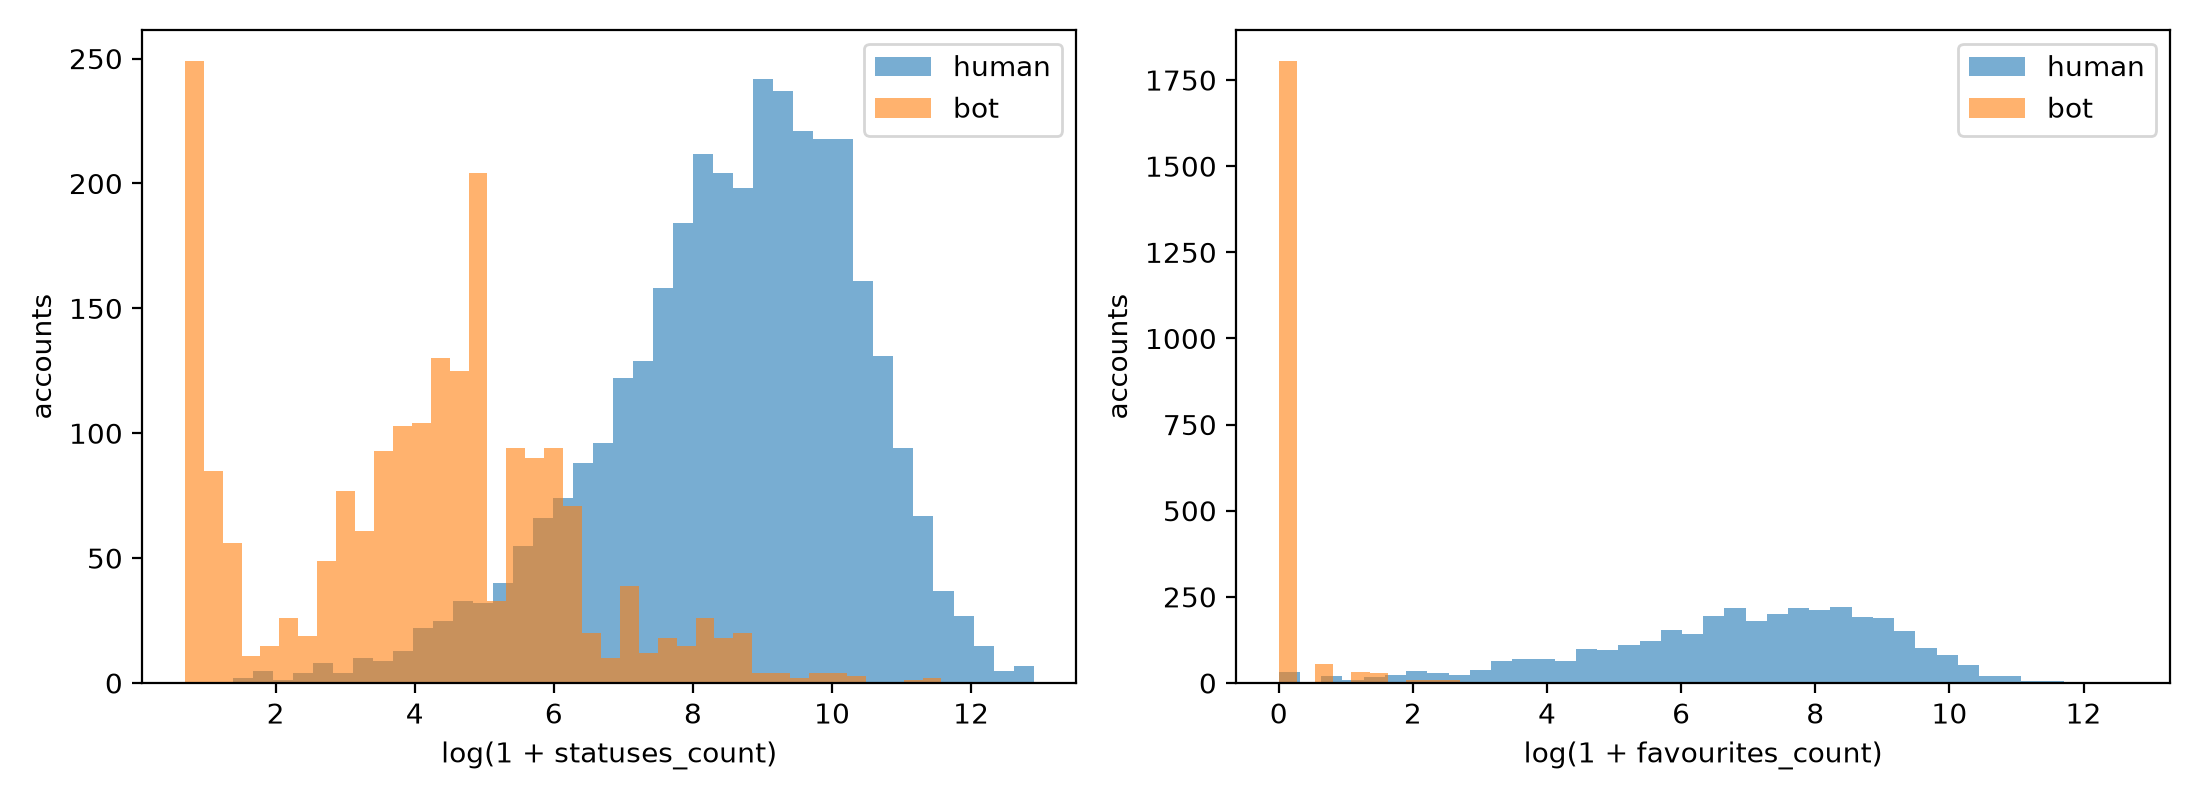
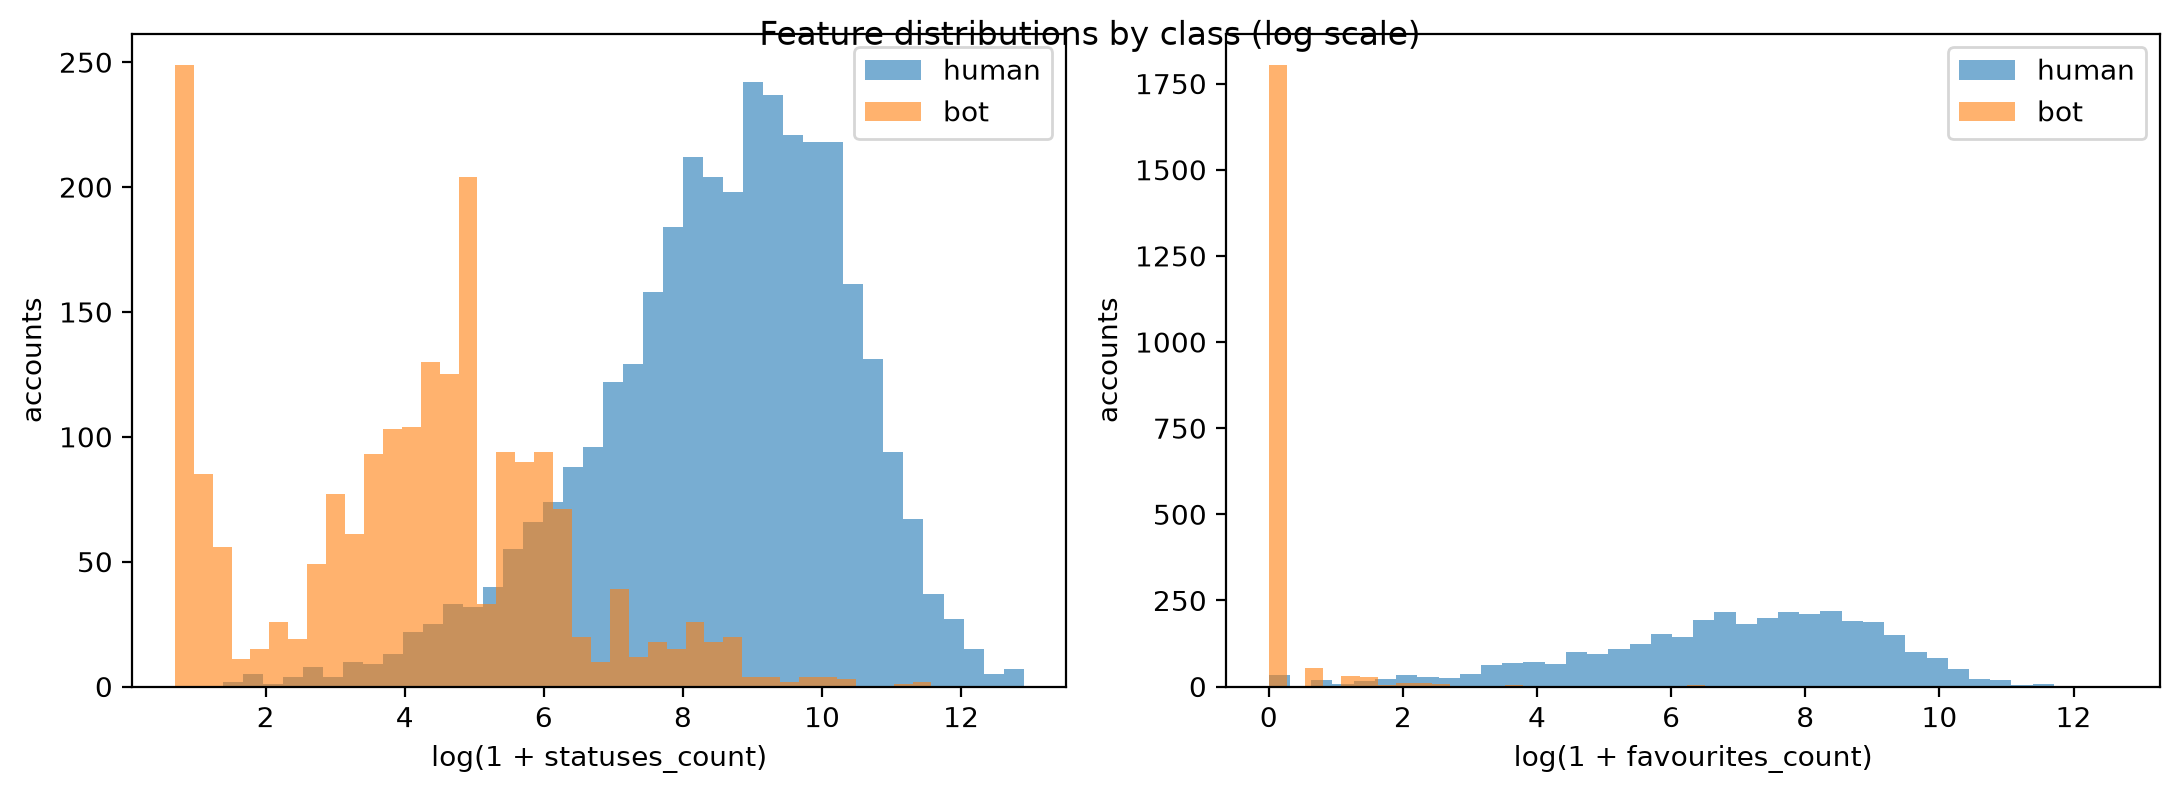
Write project README

diff --git a/README.md b/README.md
@@ -1,1 +1,72 @@
-# bot-detection
+# How Much of Bot Detection Is Really Bot Detection?
+### A Trivial-Baseline Audit of the Cresci-2017 Benchmark
+
+Final individual research project for DCIT 316 (Computational Models for
+Social Media Mining), University of Ghana, 2025/2026.
+
+**Author:** Thomas (Level 300, Department of Computer Science)
+
+## Summary
+
+Standard classifiers reach ~98% accuracy on the Cresci-2017 Twitter bot
+dataset. This project asks how much of that accuracy actually requires
+machine learning. Findings:
+
+| Model                          | Accuracy |
+|--------------------------------|----------|
+| Trivial rule (favourites == 0) | 0.962    |
+| Logistic Regression            | 0.914    |
+| Random Forest (300 trees)      | 0.979    |
+| Random Forest (no favourites)  | 0.958    |
+
+A single untrained rule comes within 1.7 points of the full Random
+Forest, suggesting the benchmark largely rewards collection artifacts
+(account life-stage differences) rather than bot-like behaviour.
+
+## Repository structure
+
+notebooks/01_data_exploration.ipynb # full pipeline: EDA, models, ablation
+figures/ # generated figures and result tables
+paper/ # final paper (DOCX)
+requirements.txt # pinned dependencies
+data/ # dataset location (not committed)
+
+
+## Data access
+
+The dataset is **not** included in this repository, in line with the
+Bot Repository's terms. To obtain it:
+
+1. Visit the Bot Repository datasets page (botometer.osome.iu.edu) and
+   request `cresci-2017` for academic use.
+2. Unzip `cresci-2017.csv.zip` into `data/`.
+3. Unzip these three sub-archives inside `data/datasets_full.csv/`:
+   `genuine_accounts.csv.zip`, `social_spambots_1.csv.zip`,
+   `traditional_spambots_1.csv.zip`.
+
+Only the `users.csv` file from each subset is used; tweet files are not
+needed.
+
+## Reproduction steps
+
+git clone https://github.com/theThomas-tech/bot-detection.git
+cd bot-detection
+python -m venv venv
+venv\Scripts\Activate.ps1 # Windows (source venv/bin/activate on Mac/Linux)
+pip install -r requirements.txt
+
+
+Then obtain the data (above) and run all cells in
+`notebooks/01_data_exploration.ipynb`. The train/test split uses a fixed
+seed (42), so all tables and figures reproduce exactly.
+
+## Citation
+
+Dataset: Cresci et al. (2017), "The paradigm-shift of social spambots,"
+WWW '17 Companion. See the paper's reference list for full citations.
+
+## AI-use disclosure
+
+Claude (Anthropic) assisted with project planning, code scaffolding,
+debugging guidance, and documentation. All code was run and verified by
+the author; analysis conclusions were drawn from the author's own outputs.
